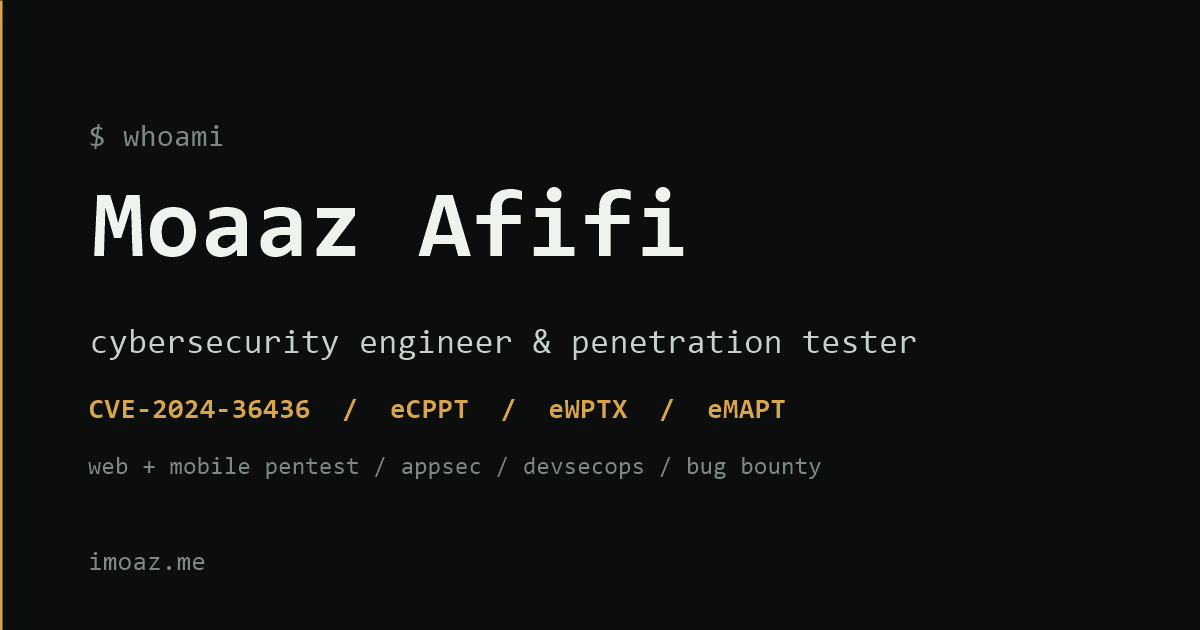
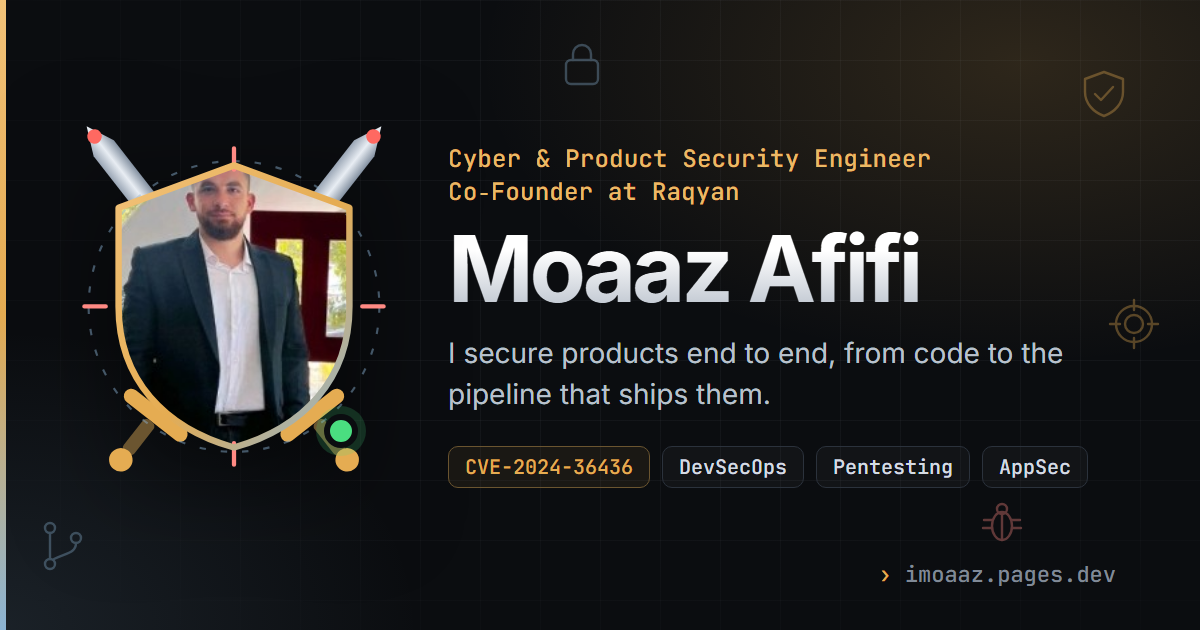
new link-preview image, bigger brands strip, readability, currently learning
- og.png regenerated from tools/og.html (shield photo with swords, Cyber &
  Product Security Engineer, imoaaz.pages.dev); og/twitter image tags on all
  pages; old PowerShell generator removed; README render steps
- client brands: section band with heading, full-colour logos in tiles,
  ~88px tall on desktop / 58px on phones
- slightly brighter body and secondary text; faint bands on alternating
  sections for clearer rhythm
- About: "Currently learning" list, labelled as in progress

diff --git a/tools/og.html b/tools/og.html
@@ -1,0 +1,89 @@
+<!doctype html>
+<!-- Social preview card (1200x630). Render to assets/img/og.png with:
+     msedge --headless --disable-gpu --hide-scrollbars --window-size=1200,630 --virtual-time-budget=6000 --screenshot=assets/img/og.png tools/og.html -->
+<html lang="en">
+<head>
+<meta charset="utf-8">
+<link href="https://fonts.googleapis.com/css2?family=Inter:wght@400;600;700&family=JetBrains+Mono:wght@500&display=swap" rel="stylesheet">
+<style>
+  * { box-sizing: border-box; margin: 0; }
+  html, body { width: 1200px; height: 630px; overflow: hidden; }
+  body {
+    position: relative;
+    background: radial-gradient(900px 500px at 85% 10%, rgba(229, 172, 82, 0.16), transparent 60%),
+                radial-gradient(700px 500px at 0% 100%, rgba(139, 180, 212, 0.12), transparent 60%),
+                #0b0d10;
+    font-family: Inter, system-ui, sans-serif;
+    color: #f3f5f8;
+  }
+  .grid {
+    position: absolute; inset: 0;
+    background-image: linear-gradient(rgba(185,193,204,.05) 1px, transparent 1px), linear-gradient(90deg, rgba(185,193,204,.05) 1px, transparent 1px);
+    background-size: 60px 60px;
+    -webkit-mask-image: radial-gradient(90% 90% at 60% 40%, #000 40%, transparent 90%);
+  }
+  .icons { position: absolute; inset: 0; opacity: .35; }
+  .wrap { position: absolute; inset: 0; display: flex; align-items: center; gap: 64px; padding: 0 84px; }
+  .shield { position: relative; flex: none; width: 300px; height: 342px; filter: drop-shadow(0 30px 50px rgba(0,0,0,.55)); }
+  .shield svg { position: absolute; inset: 0; width: 100%; height: 100%; overflow: visible; }
+  .photo { position: absolute; left: 11.43%; top: 6.25%; width: 77.14%; height: 82.5%; clip-path: url(#clip); overflow: hidden; background: #0e1115; }
+  .photo img { width: 100%; height: 100%; object-fit: cover; object-position: 45% 10%; transform: scale(1.9); transform-origin: 45% 24%; }
+  .dot { position: absolute; right: 26px; bottom: 38px; width: 34px; height: 34px; border-radius: 50%; background: #4ade80; border: 6px solid #0b0d10; box-shadow: 0 0 0 8px rgba(74,222,128,.18); }
+  .kicker { font: 500 24px/1.4 "JetBrains Mono", monospace; color: #ebb966; letter-spacing: .01em; }
+  h1 { margin: 14px 0 18px; font-size: 92px; line-height: 1; font-weight: 700; letter-spacing: -0.045em;
+       background: linear-gradient(180deg, #fff 30%, #b8c0cb); -webkit-background-clip: text; color: transparent; }
+  .line { font-size: 28px; line-height: 1.45; color: #b9c1cc; max-width: 640px; }
+  .chips { display: flex; gap: 12px; margin-top: 32px; }
+  .chip { font: 500 20px/1 "JetBrains Mono", monospace; padding: 10px 16px; border-radius: 10px; border: 1px solid #2b323c; background: rgba(255,255,255,.03); color: #d5dbe3; }
+  .chip.hl { color: #e5ac52; border-color: #6b5530; background: rgba(229,172,82,.07); }
+  .url { position: absolute; right: 84px; bottom: 44px; font: 500 22px/1 "JetBrains Mono", monospace; color: #808a97; }
+  .url b { color: #e5ac52; font-weight: 500; }
+  .bar { position: absolute; left: 0; top: 0; bottom: 0; width: 6px; background: linear-gradient(180deg, #f2c279, #e5ac52 50%, #8bb4d4); }
+</style>
+</head>
+<body>
+  <div class="grid"></div>
+  <div class="bar"></div>
+  <svg class="icons" viewBox="0 0 1200 630" fill="none" stroke-linecap="round" stroke-linejoin="round" stroke-width="2.4">
+    <g transform="translate(1080 70)" stroke="#e5ac52"><path d="M24 2 5 9v13c0 11 8 20 19 24 11-4 19-13 19-24V9z"/><path d="m15 24 6 6 12-13"/></g>
+    <g transform="translate(980 500)" stroke="#ff8a84"><ellipse cx="22" cy="26" rx="10" ry="14"/><circle cx="22" cy="9" r="5"/><path d="M12 20H4M12 28H3M32 20h8M32 28h9M22 14v26"/></g>
+    <g transform="translate(560 40)" stroke="#8bb4d4"><rect x="6" y="20" width="32" height="24" rx="5"/><path d="M13 20v-6a9 9 0 0 1 18 0v6"/></g>
+    <g transform="translate(40 520)" stroke="#8bb4d4"><circle cx="10" cy="8" r="5"/><circle cx="10" cy="44" r="5"/><circle cx="36" cy="18" r="5"/><path d="M10 13v26M36 23c0 10-10 10-22 16"/></g>
+    <g transform="translate(1110 300)" stroke="#e5ac52"><circle cx="24" cy="24" r="18"/><circle cx="24" cy="24" r="9"/><path d="M24 0v10M24 38v10M0 24h10M38 24h10"/></g>
+  </svg>
+
+  <div class="wrap">
+    <div class="shield">
+      <svg viewBox="0 0 140 160" aria-hidden="true">
+        <defs>
+          <clipPath id="clip" clipPathUnits="objectBoundingBox"><path d="M.5 0 L1 .15 V.5 C1 .76 .8 .93 .5 1 C.2 .93 0 .76 0 .5 V.15 Z"/></clipPath>
+          <linearGradient id="st" x1="0" y1="0" x2="1" y2="0"><stop offset="0" stop-color="#9aa6b5"/><stop offset=".5" stop-color="#e8edf3"/><stop offset="1" stop-color="#8592a2"/></linearGradient>
+          <linearGradient id="ol" x1="0" y1="0" x2="1" y2="1"><stop offset="0" stop-color="#f2c279"/><stop offset=".55" stop-color="#e5ac52"/><stop offset="1" stop-color="#8bb4d4"/></linearGradient>
+        </defs>
+        <g transform="translate(70 80) rotate(-38)"><path d="M0 -112 L6 -99 V56 H-6 V-99 Z" fill="url(#st)"/><rect x="-18" y="56" width="36" height="7" rx="3.5" fill="#e5ac52"/><rect x="-3.2" y="63" width="6.4" height="19" rx="2.4" fill="#6b5530"/><circle cy="86" r="5.5" fill="#e5ac52"/><circle cy="-106" r="3.4" fill="#ff6961"/></g>
+        <g transform="translate(70 80) rotate(38)"><path d="M0 -112 L6 -99 V56 H-6 V-99 Z" fill="url(#st)"/><rect x="-18" y="56" width="36" height="7" rx="3.5" fill="#e5ac52"/><rect x="-3.2" y="63" width="6.4" height="19" rx="2.4" fill="#6b5530"/><circle cy="86" r="5.5" fill="#e5ac52"/><circle cy="-106" r="3.4" fill="#ff6961"/></g>
+      </svg>
+      <div class="photo"><img src="../assets/img/moaaz.jpg" alt=""></div>
+      <svg viewBox="0 0 140 160" aria-hidden="true">
+        <circle cx="70" cy="76" r="68" fill="none" stroke="#8bb4d4" stroke-opacity=".45" stroke-width="1" stroke-dasharray="3 7"/>
+        <path d="M70 2v10M70 140v10M0 76h10M130 76h10" stroke="#ff8a84" stroke-width="2" stroke-linecap="round"/>
+        <path d="M70 10 L124 29.8 V76 C124 110.3 102.4 132.8 70 142 C37.6 132.8 16 110.3 16 76 V29.8 Z" fill="none" stroke="url(#ol)" stroke-width="3" stroke-linejoin="round"/>
+      </svg>
+      <span class="dot"></span>
+    </div>
+
+    <div>
+      <p class="kicker">Cyber &amp; Product Security Engineer<br>Co&#8209;Founder at Raqyan</p>
+      <h1>Moaaz Afifi</h1>
+      <p class="line">I secure products end to end, from code to the pipeline that ships them.</p>
+      <div class="chips">
+        <span class="chip hl">CVE-2024-36436</span>
+        <span class="chip">DevSecOps</span>
+        <span class="chip">Pentesting</span>
+        <span class="chip">AppSec</span>
+      </div>
+    </div>
+  </div>
+  <p class="url"><b>›</b> imoaaz.pages.dev</p>
+</body>
+</html>

diff --git a/assets/css/style.css b/assets/css/style.css
@@ -14,9 +14,9 @@
   --line-soft: #1b2028;
 
   /* text */
-  --text: #b9c1cc;
+  --text: #c0c7d1;
   --bright: #f3f5f8;
-  --dim: #808a97;
+  --dim: #8b95a2;
 
   /* accent */
   --amber: #e5ac52;
@@ -398,22 +398,35 @@ strong { color: var(--bright); font-weight: 600; }
 
 /* --------------------------------------------- logo marquee ---- */
 .logo-strip {
+  position: relative;
   border-top: 1px solid var(--line-soft);
-  padding: 2.75rem 0 3rem;
+  border-bottom: 1px solid var(--line-soft);
+  padding: 3.5rem 0 3.75rem;
+  background:
+    radial-gradient(60% 120% at 50% 0%, rgba(229, 172, 82, 0.06), transparent 70%),
+    linear-gradient(180deg, rgba(255, 255, 255, 0.015), transparent);
 }
 .logo-strip-cap {
   font-size: var(--fs-xs);
-  letter-spacing: 0.12em;
+  letter-spacing: 0.14em;
   text-transform: uppercase;
-  color: var(--dim);
+  color: var(--amber);
   text-align: center;
-  margin: 0 0 1.5rem;
+  margin: 0 0 0.5rem;
+}
+.logo-strip-title {
+  margin: 0 0 2rem;
+  text-align: center;
+  font-size: clamp(1.4rem, 2.6vw, 1.85rem);
+  font-weight: 650;
+  letter-spacing: -0.02em;
+  color: var(--bright);
 }
 
 .marquee {
   overflow: hidden;
-  -webkit-mask-image: linear-gradient(90deg, transparent, #000 10%, #000 90%, transparent);
-  mask-image: linear-gradient(90deg, transparent, #000 10%, #000 90%, transparent);
+  -webkit-mask-image: linear-gradient(90deg, transparent, #000 8%, #000 92%, transparent);
+  mask-image: linear-gradient(90deg, transparent, #000 8%, #000 92%, transparent);
 }
 .marquee-track {
   display: flex;
@@ -424,27 +437,32 @@ strong { color: var(--bright); font-weight: 600; }
 .marquee-set {
   display: flex;
   align-items: center;
-  gap: 2.75rem;
-  padding-right: 2.75rem;
+  gap: 1.25rem;
+  padding-right: 1.25rem;
 }
 .logo-chip {
   display: flex;
   align-items: center;
   justify-content: center;
-  height: 88px;
-  padding: 0 0.75rem;
+  height: 124px;
+  min-width: 190px;
+  padding: 0.9rem 1.5rem;
+  background: rgba(255, 255, 255, 0.035);
+  border: 1px solid var(--line);
+  border-radius: var(--radius);
+  transition: border-color 0.25s ease, background 0.25s ease, transform 0.25s ease;
 }
 .logo-chip img {
-  max-height: 64px;
-  max-width: 190px;
+  max-height: 88px;
+  max-width: 230px;
   width: auto;
   height: auto;
   object-fit: contain;
-  filter: grayscale(1) brightness(1.3);
-  opacity: 0.7;
-  transition: filter 0.25s ease, opacity 0.25s ease;
+  opacity: 0.95;
+  transition: opacity 0.25s ease, transform 0.25s ease;
 }
-.logo-chip:hover img { filter: none; opacity: 1; }
+.logo-chip:hover { border-color: #3a424e; background: rgba(255, 255, 255, 0.06); transform: translateY(-3px); }
+.logo-chip:hover img { opacity: 1; transform: scale(1.04); }
 @keyframes marquee {
   from { transform: translateX(0); }
   to   { transform: translateX(-50%); }
@@ -2377,10 +2395,11 @@ abbr[title] { text-decoration: underline dotted rgba(185, 193, 204, 0.5); text-u
   .tl-type { margin-left: 0.4em; }
 
   /* logos */
-  .logo-strip { padding: 2rem 0 2.25rem; }
-  .logo-chip { height: 64px; }
-  .logo-chip img { max-height: 44px; max-width: 130px; }
-  .marquee-set { gap: 1.75rem; padding-right: 1.75rem; }
+  .logo-strip { padding: 2.5rem 0 2.75rem; }
+  .logo-strip-title { margin-bottom: 1.4rem; }
+  .logo-chip { height: 88px; min-width: 132px; padding: 0.6rem 1rem; }
+  .logo-chip img { max-height: 58px; max-width: 150px; }
+  .marquee-set { gap: 0.8rem; padding-right: 0.8rem; }
 
   /* services */
   .work-row { padding: 1.4rem 0.6rem; margin: 0 -0.6rem; }
@@ -2675,3 +2694,32 @@ abbr[title] { text-decoration: underline dotted rgba(185, 193, 204, 0.5); text-u
 .social-handle { font-size: 0.75rem; color: var(--dim); overflow: hidden; text-overflow: ellipsis; white-space: nowrap; }
 .social-arrow { margin-left: auto; color: var(--amber); opacity: 0; transform: translate(-4px, 4px); transition: opacity 0.18s ease, transform 0.18s ease; }
 .social:hover .social-arrow { opacity: 1; transform: none; }
+
+/* ---------- section rhythm: faint bands on alternating sections ---------- */
+#about, #projects, #certs {
+  background: linear-gradient(180deg, rgba(255, 255, 255, 0.018), rgba(255, 255, 255, 0.008));
+}
+
+/* ---------- currently learning ---------- */
+.learning { margin-top: 2rem; }
+.learning-head {
+  display: flex;
+  align-items: center;
+  gap: 0.55rem;
+  margin: 0 0 0.75rem;
+  font-size: var(--fs-xs);
+  letter-spacing: 0.12em;
+  text-transform: uppercase;
+  color: var(--cyan);
+}
+.learning-dot { width: 8px; height: 8px; border-radius: 50%; background: var(--cyan); box-shadow: 0 0 0 3px rgba(139, 180, 212, 0.18); animation: pulse 2.2s ease-in-out infinite; }
+.learning-list { display: flex; flex-wrap: wrap; gap: 0.5rem; list-style: none; margin: 0; padding: 0; }
+.learning-list li {
+  font-size: var(--fs-sm);
+  color: var(--text);
+  border: 1px dashed rgba(139, 180, 212, 0.4);
+  background: rgba(139, 180, 212, 0.05);
+  border-radius: 999px;
+  padding: 0.3em 0.9em;
+}
+

diff --git a/index.html b/index.html
@@ -14,6 +14,8 @@
   <meta property="og:description" content="Cyber &amp; Product Security Engineer, co-founder of Raqyan. Product security, DevSecOps, and penetration testing.">
   <meta property="og:url" content="https://imoaaz.pages.dev/">
   <meta property="og:image" content="https://imoaaz.pages.dev/assets/img/og.png">
+  <meta property="og:image:width" content="1200">
+  <meta property="og:image:height" content="630">
   <meta name="twitter:card" content="summary_large_image">
   <meta name="twitter:title" content="Moaaz Afifi — Cyber &amp; Product Security Engineer">
   <meta name="twitter:description" content="Cyber &amp; Product Security Engineer, co-founder of Raqyan. Product security, DevSecOps, and penetration testing.">
@@ -303,7 +305,8 @@
     <!-- ============================== logo marquee ============================== -->
     <section class="logo-strip" aria-label="Brands from client engagements">
       <div class="container">
-        <p class="logo-strip-cap mono">Brands from client engagements</p>
+        <p class="logo-strip-cap mono">Client engagements</p>
+        <h2 class="logo-strip-title">Brands I've worked with</h2>
       </div>
       <div class="marquee">
         <div class="marquee-track">
@@ -330,6 +333,17 @@
           <p class="reveal">I came to security from software development, so I read code, not just responses, and understand what the developer intended.</p>
           <p class="reveal" style="--d:90ms">I work on both sides: shipping software and attacking it.</p>
           <p class="about-meta mono reveal" style="--d:160ms">Languages: Arabic · English</p>
+          <!-- Skills in progress: shown as learning, not as experience. Edit freely. -->
+          <div class="learning reveal" style="--d:200ms">
+            <p class="learning-head mono"><span class="learning-dot" aria-hidden="true"></span>Currently learning</p>
+            <ul class="learning-list">
+              <li>Cloud security (AWS)</li>
+              <li>Kubernetes &amp; container security</li>
+              <li>Threat modeling</li>
+              <li>Software supply chain (SBOM, SLSA)</li>
+              <li>Infrastructure-as-Code security</li>
+            </ul>
+          </div>
         </div>
       </div>
     </section>

diff --git a/blog/waf-bypass/index.html b/blog/waf-bypass/index.html
@@ -11,12 +11,15 @@
 
   <meta property="og:type" content="article">
   <meta property="og:image" content="https://imoaaz.pages.dev/assets/img/og.png">
+  <meta property="og:image:width" content="1200">
+  <meta property="og:image:height" content="630">
   <meta name="twitter:card" content="summary_large_image">
   <meta property="og:title" content="From Frustration to Exploitation: How a Link Shortener Helped Me Bypass WAF">
   <meta property="og:description" content="When a WAF blocked every XSS payload in the search box, the platform's own link shortener became the bypass.">
   <meta property="og:url" content="https://imoaaz.pages.dev/blog/waf-bypass/">
   <meta property="article:published_time" content="2024-12-05">
 
+  <meta name="twitter:image" content="https://imoaaz.pages.dev/assets/img/og.png">
   <link rel="icon" href="/assets/img/favicon.svg" type="image/svg+xml">
   <link rel="preconnect" href="https://fonts.googleapis.com">
   <link rel="preconnect" href="https://fonts.gstatic.com" crossorigin>

diff --git a/blog/comments-to-rce/index.html b/blog/comments-to-rce/index.html
@@ -11,12 +11,15 @@
 
   <meta property="og:type" content="article">
   <meta property="og:image" content="https://imoaaz.pages.dev/assets/img/og.png">
+  <meta property="og:image:width" content="1200">
+  <meta property="og:image:height" content="630">
   <meta name="twitter:card" content="summary_large_image">
   <meta property="og:title" content="From Comments to Command Execution: How an E-Book Platform Gave Me RCE">
   <meta property="og:description" content="From a stored XSS in a comment feature to remote code execution — a full file-upload bypass writeup.">
   <meta property="og:url" content="https://imoaaz.pages.dev/blog/comments-to-rce/">
   <meta property="article:published_time" content="2024-12-20">
 
+  <meta name="twitter:image" content="https://imoaaz.pages.dev/assets/img/og.png">
   <link rel="icon" href="/assets/img/favicon.svg" type="image/svg+xml">
   <link rel="preconnect" href="https://fonts.googleapis.com">
   <link rel="preconnect" href="https://fonts.gstatic.com" crossorigin>

diff --git a/blog/index.html b/blog/index.html
@@ -9,11 +9,16 @@
   <meta name="color-scheme" content="dark">
   <meta name="theme-color" content="#0b0d10">
 
+  <meta property="og:image" content="https://imoaaz.pages.dev/assets/img/og.png">
+  <meta property="og:image:width" content="1200">
+  <meta property="og:image:height" content="630">
   <meta property="og:type" content="website">
   <meta property="og:title" content="Engineering &amp; Security Blog — Moaaz Afifi">
   <meta property="og:description" content="Bug bounty write-ups, disclosure reports, and practical security techniques from real engagements.">
   <meta property="og:url" content="https://imoaaz.pages.dev/blog/">
 
+  <meta name="twitter:card" content="summary_large_image">
+  <meta name="twitter:image" content="https://imoaaz.pages.dev/assets/img/og.png">
   <link rel="icon" href="/assets/img/favicon.svg" type="image/svg+xml">
   <link rel="preconnect" href="https://fonts.googleapis.com">
   <link rel="preconnect" href="https://fonts.gstatic.com" crossorigin>

diff --git a/blog/fuzz-the-type/index.html b/blog/fuzz-the-type/index.html
@@ -11,12 +11,15 @@
 
   <meta property="og:type" content="article">
   <meta property="og:image" content="https://imoaaz.pages.dev/assets/img/og.png">
+  <meta property="og:image:width" content="1200">
+  <meta property="og:image:height" content="630">
   <meta name="twitter:card" content="summary_large_image">
   <meta property="og:title" content="Fuzz the type, not just the value">
   <meta property="og:description" content="Swap the type, not just the payload — a one-line habit that keeps finding authorization bugs.">
   <meta property="og:url" content="https://imoaaz.pages.dev/blog/fuzz-the-type/">
   <meta property="article:published_time" content="2026-09-14">
 
+  <meta name="twitter:image" content="https://imoaaz.pages.dev/assets/img/og.png">
   <link rel="icon" href="/assets/img/favicon.svg" type="image/svg+xml">
   <link rel="preconnect" href="https://fonts.googleapis.com">
   <link rel="preconnect" href="https://fonts.gstatic.com" crossorigin>

diff --git a/cv/index.html b/cv/index.html
@@ -9,11 +9,16 @@
   <meta name="color-scheme" content="dark">
   <meta name="theme-color" content="#0b0d10">
 
+  <meta property="og:image" content="https://imoaaz.pages.dev/assets/img/og.png">
+  <meta property="og:image:width" content="1200">
+  <meta property="og:image:height" content="630">
   <meta property="og:type" content="website">
   <meta property="og:title" content="CV — Moaaz Afifi">
   <meta property="og:description" content="Cyber &amp; Product Security Engineer and co-founder of Raqyan. Download or share my CV.">
   <meta property="og:url" content="https://imoaaz.pages.dev/cv/">
 
+  <meta name="twitter:card" content="summary_large_image">
+  <meta name="twitter:image" content="https://imoaaz.pages.dev/assets/img/og.png">
   <link rel="icon" href="/assets/img/favicon.svg" type="image/svg+xml">
   <link rel="preconnect" href="https://fonts.googleapis.com">
   <link rel="preconnect" href="https://fonts.gstatic.com" crossorigin>

diff --git a/404.html b/404.html
@@ -8,6 +8,11 @@
   <meta name="color-scheme" content="dark">
   <meta name="theme-color" content="#0b0d10">
 
+  <meta property="og:image" content="https://imoaaz.pages.dev/assets/img/og.png">
+  <meta property="og:image:width" content="1200">
+  <meta property="og:image:height" content="630">
+  <meta name="twitter:card" content="summary_large_image">
+  <meta name="twitter:image" content="https://imoaaz.pages.dev/assets/img/og.png">
   <link rel="icon" href="/assets/img/favicon.svg" type="image/svg+xml">
   <link rel="preconnect" href="https://fonts.googleapis.com">
   <link rel="preconnect" href="https://fonts.gstatic.com" crossorigin>

diff --git a/README.md b/README.md
@@ -49,6 +49,14 @@ Pushing to GitHub does **not** auto-deploy (direct-upload project). After editin
 
 The photo loads from the GitHub avatar (`avatars.githubusercontent.com/u/70091653`), so changing your GitHub profile picture updates the site automatically (allow a few hours for caching). If GitHub is unreachable it falls back to `assets/img/moaaz.jpg`; replace that file too when you change the photo. LinkedIn photo URLs are signed and expire, so they can't be used as a permanent source.
 
+## Link-preview image
+
+`assets/img/og.png` (1200×630) is rendered from `tools/og.html`. After editing that file:
+
+```bash
+"/c/Program Files (x86)/Microsoft/Edge/Application/msedge.exe" --headless=new --disable-gpu --hide-scrollbars --force-device-scale-factor=1 --window-size=1200,630 --virtual-time-budget=8000 --screenshot="G:\imoaaz.me\assets\img\og.png" "file:///G:/imoaaz.me/tools/og.html"
+```
+
 ## CV
 
 Put the PDF at `assets/cv/Moaaz-Afifi-CV.pdf`, commit, deploy. The CV page (`/cv/`) checks for the file on load: when it exists, **View** and **Download** switch on and the size / date appear; until then they show "coming soon" with a link to request it. **Share** uses the phone's share sheet (or copies the link), and the QR code (`assets/img/cv-qr.svg`) points to `https://imoaaz.pages.dev/cv/`. If the domain changes, regenerate it:
